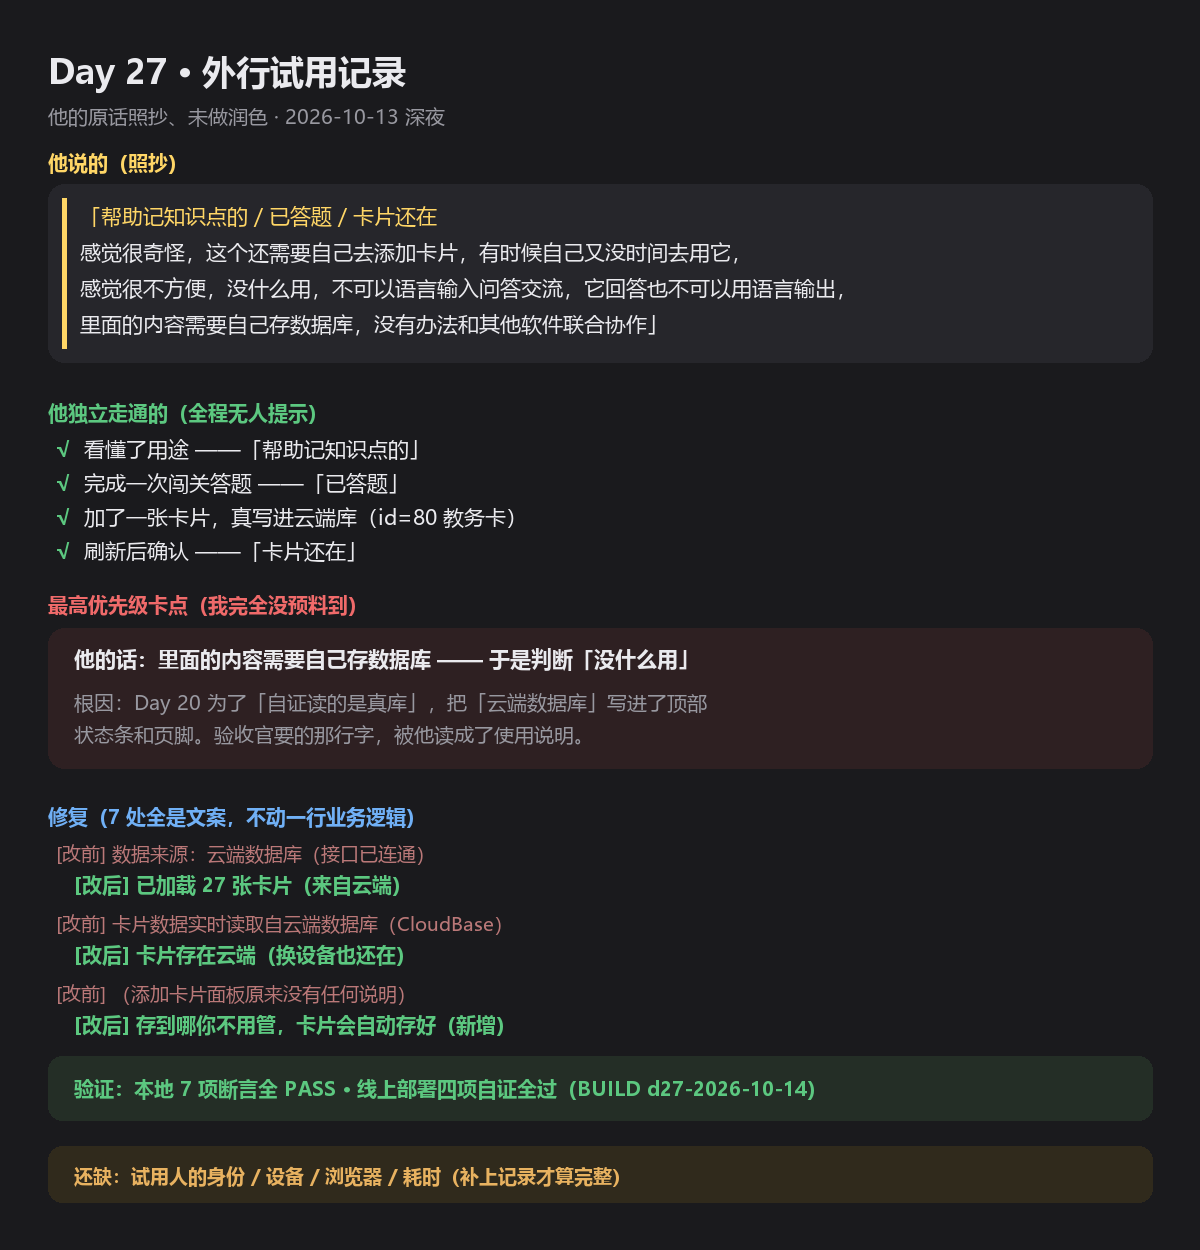
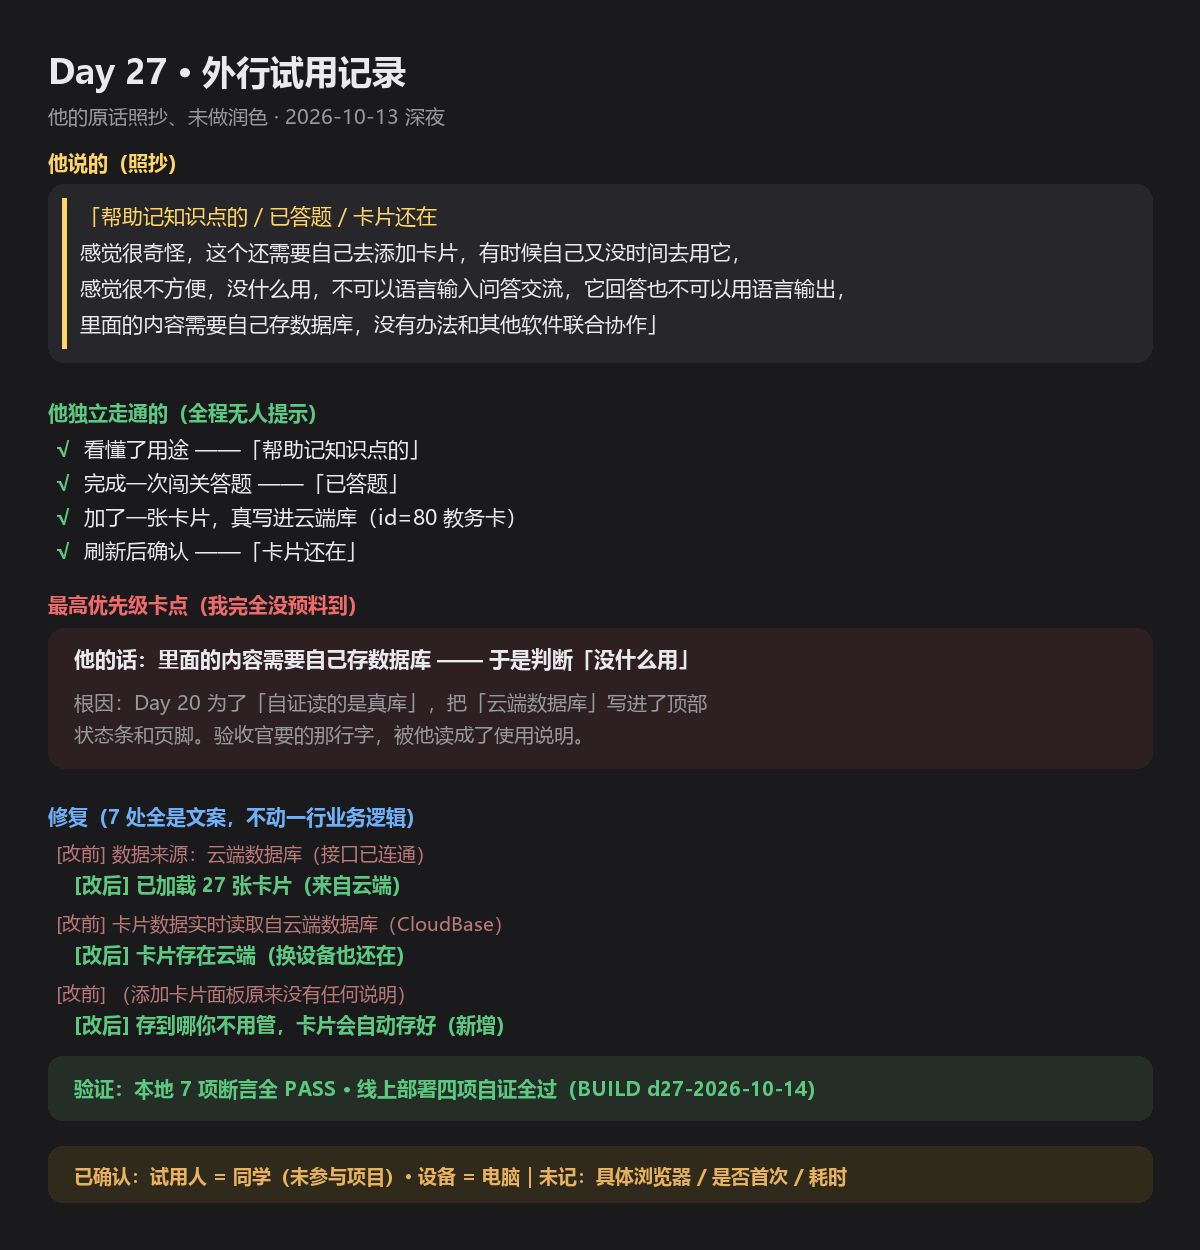
Day 27｜补记试用环境：试用人=未参与项目的同学、设备=电脑；id=80 卡片保留
改了什么：day27-trial-record.md 环境表与收尾对照表按确认结果更新；记录卡图同步
加了什么：无

Changed region(s): [[0.0617, 0.936, 0.7092, 0.9672]]

diff --git a/docs/day27-trial-record.md b/docs/day27-trial-record.md
@@ -9,14 +9,14 @@
 
 | 项 | 值 |
 |---|---|
-| 试用人 | ⏳ **待补**（须是没参与本项目的人；教材要求"不认识你的验收官"） |
+| 试用人 | ✅ **同学（未参与本项目）** —— 符合教材「没参与项目的外行」要求，记录有效 |
 | 试用日期时间 | 2026-10-13 深夜 |
-| 设备 / 系统 | ⏳ **待补** |
-| 浏览器 | ⏳ **待补** |
-| 是否第一次看到 | ⏳ **待补** |
-| 全程耗时 | ⏳ **待补** |
+| 设备 / 系统 | ✅ 电脑 |
+| 浏览器 | ⚠ 未记录（已知是电脑，具体浏览器未问） |
+| 是否第一次看到 | ⚠ 未记录 |
+| 全程耗时 | ⚠ 未记录 |
 
-> ⚠ 这四栏缺失 = 记录按教材「试用环境必填，否则记录不算数」**还不完整**，已列进第九节待补。
+> 剩余三栏按教材口径**如实标注未记录**，不代填。
 
 ---
 
@@ -171,7 +171,7 @@ front=「我们为什么公司比较新（必背）」
 
 | 清单项 | 状态 | 证据 |
 |---|---|---|
-| ① 邀请第三方试用 | ⚠ **部分**（原话已到手，环境三栏待补、试用人身份待确认） | 本文第二、三节 |
+| ① 邀请第三方试用 | ✅（试用人 = 未参与项目的同学，设备 = 电脑；具体浏览器/是否首次/耗时未记，已如实标注） | 本文第一、二、三节 |
 | ② 收集反馈 | ✅ | 三条卡点 B/C/D 已归类登记（第三节） |
 | ③ 最高优先级修复 | ✅ | A：7 处文案修复 + 本地 7 项断言全过 + 线上四项自证全过（第五、六节） |
 | ④ 资源额度检查 | ✅ | `docs/day27-resource-check.md`（6.21/3000 点、到期 2027-04-03） |
